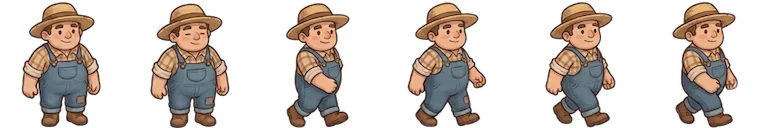
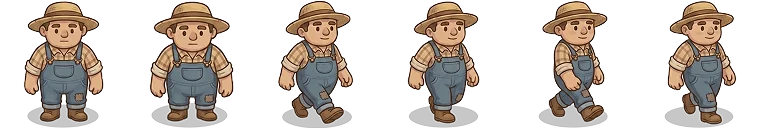
jaya

diff --git a/game.js b/game.js
@@ -1896,7 +1896,7 @@ console.log(
                 gTop + (pick.r + 0.5) * g.tile, 'farmers', 0)
             .setDisplaySize(h, h)                  // frames are square
             .setOrigin(0.5, 0.85), seg);       // stands on his feet, not his middle
-        spr.play('farmer_idle');
+        spr.setFrame(F.IDLE_FRAME || 0);  // idle is a still pose, not a loop
 
         seg.farmer = {
             spr, gTop,
@@ -1928,12 +1928,11 @@ console.log(
     _rndRange(r) { return r[0] + Math.random() * (r[1] - r[0]); }
 
     // Built once and shared by every farmer, the same way the trencher's are.
+    // Only WALK is an animation — standing still is a held frame, so there is
+    // nothing to build for it and nothing for the animation system to step.
     _makeFarmerAnims() {
-        if (this.anims.exists('farmer_idle')) return;
+        if (this.anims.exists('farmer_walk')) return;
         const F = CONFIG.ROAD.TILEMAP.FARMER || {};
-        this.anims.create({ key: 'farmer_idle', repeat: -1,
-            frameRate: F.IDLE_FPS || 3,
-            frames: this.anims.generateFrameNumbers('farmers', { start: 0, end: 1 }) });
         this.anims.create({ key: 'farmer_walk', repeat: -1,
             frameRate: F.WALK_FPS || 9,
             frames: this.anims.generateFrameNumbers('farmers', { start: 2, end: 5 }) });
@@ -1986,7 +1985,8 @@ console.log(
                 f.spr.setPosition(f.tx, f.ty);
                 f.walking = false;
                 f.waitT = this._rndRange(F.PAUSE_MS || [1800, 6500]);
-                f.spr.play('farmer_idle');
+                f.spr.anims.stop();
+                f.spr.setFrame(F.IDLE_FRAME || 0);
             } else {
                 f.spr.x += (dx / d) * stepPx;
                 f.spr.y += (dy / d) * stepPx;

diff --git a/config.js b/config.js
@@ -452,7 +452,11 @@ var CONFIG = {
             // plain ground, so short levels read as a field with open land
             // beyond it rather than leaving a hole between levels.
             LEVELS: [
+                { FILE: 'level_maps/level_01.tmj' },
                 { FILE: 'level_maps/level_02.tmj' },
+                { FILE: 'level_maps/level_03.tmj' },
+                { FILE: 'level_maps/level_04.tmj' },
+                { FILE: 'level_maps/level_05.tmj' },
                 // { FILE: 'level_maps/level_02.tmj' },
                 //  {
                 //     FILE: 'level_maps/level_03.tmj',
@@ -689,8 +693,9 @@ var CONFIG = {
                 ENABLED: true,
                 FILE:  'graphics/farmers.webp',
                 SIZE:  1.9,         // height as a fraction of a tile
-                IDLE_FPS: 3,        // the two idle frames, slow — a breathe
-                WALK_FPS: 9,
+                IDLE_FRAME: 0,      // standing still is a STILL POSE, not a
+                                    // loop — this frame is held. Frame 1 unused
+                WALK_FPS: 8,
                 SPEED: 1.1,         // tiles/sec
                 PAUSE_MS: [1800, 6500],   // he mostly stands still; this is the
                                           // wait between walks, weighted long
